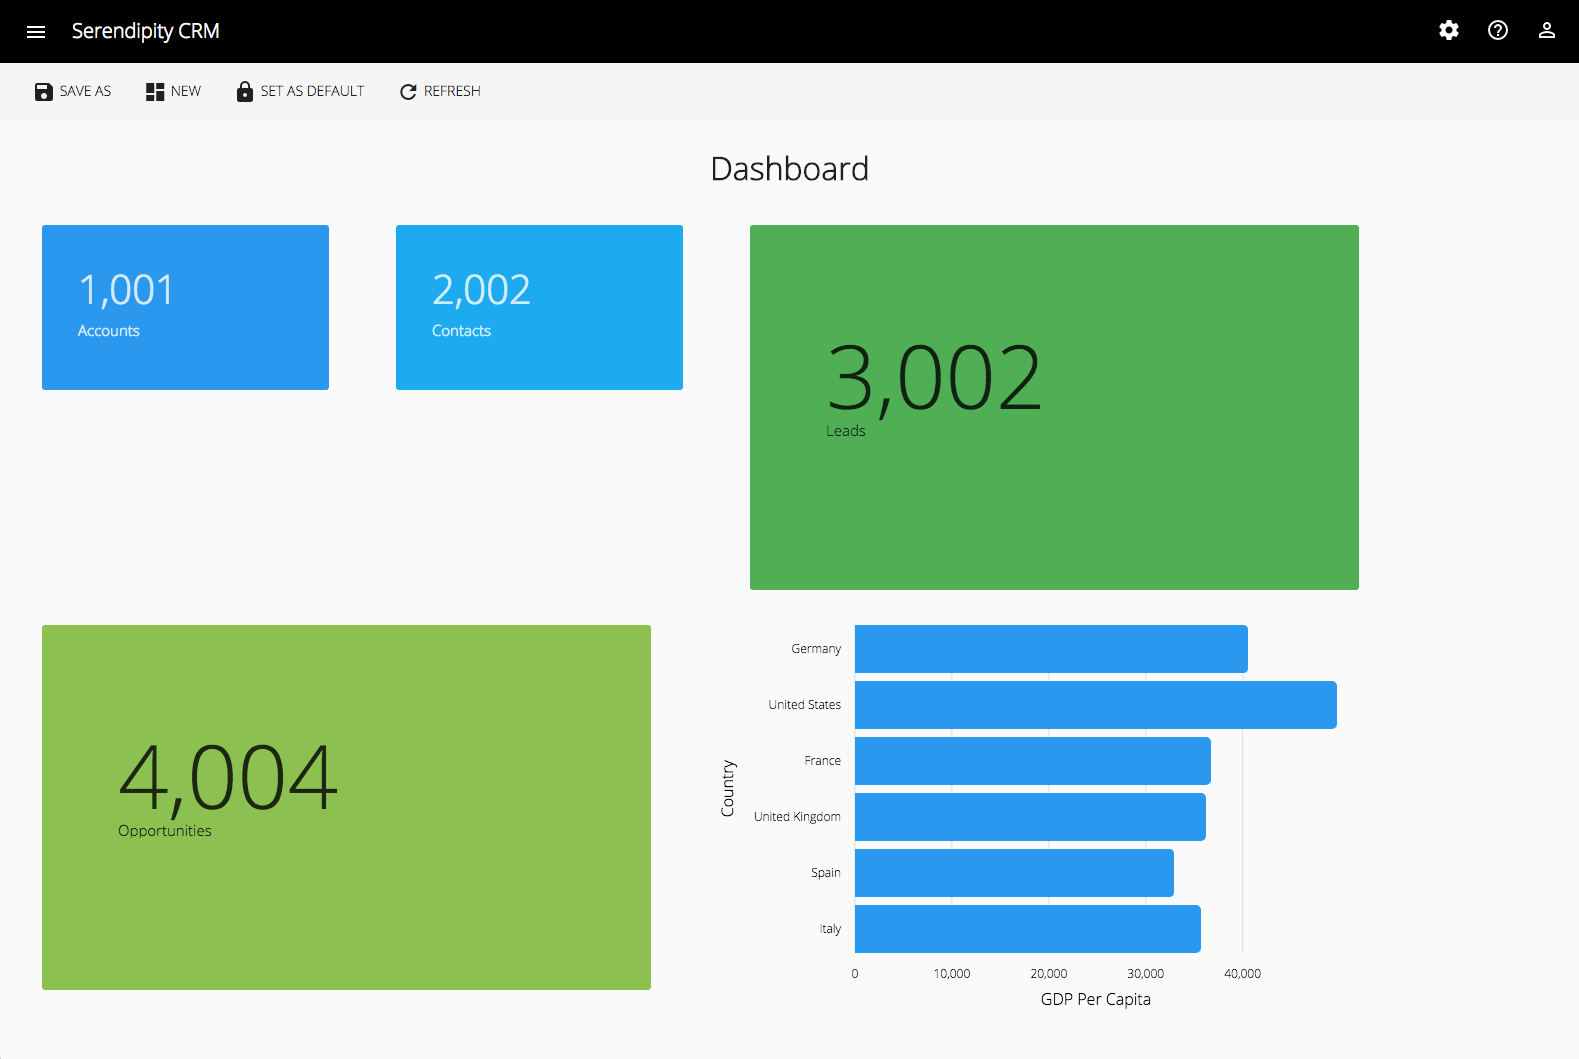
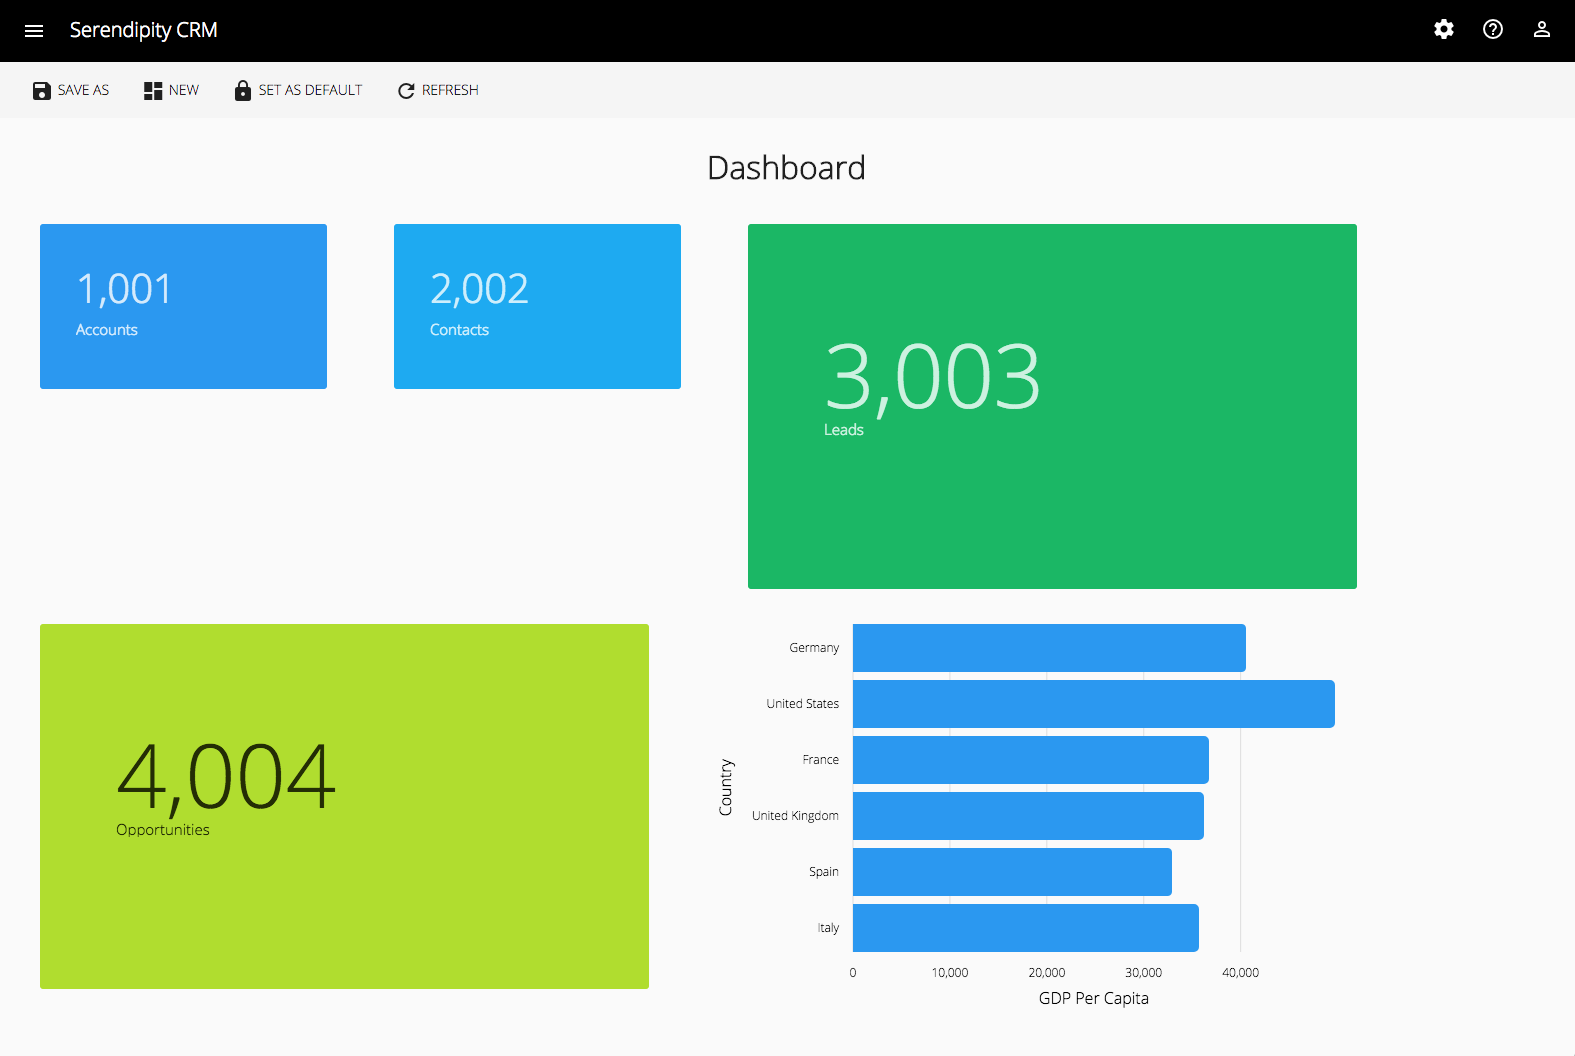
Added support for Firebase Hosting

diff --git a/projects/sales/src/lib/components/dashboard/color-sets.ts b/projects/sales/src/lib/components/dashboard/color-sets.ts
@@ -1,0 +1,124 @@
+export let colorSets = [
+  {
+    name: 'vivid',
+    selectable: true,
+    group: 'Ordinal',
+    domain: [
+      '#647c8a', '#3f51b5', '#2196f3', '#00b862', '#afdf0a', '#a7b61a', '#f3e562', '#ff9800', '#ff5722', '#ff4514'
+    ]
+  },
+  {
+    name: 'natural',
+    selectable: true,
+    group: 'Ordinal',
+    domain: [
+      '#bf9d76', '#e99450', '#d89f59', '#f2dfa7', '#a5d7c6', '#7794b1', '#afafaf', '#707160', '#ba9383', '#d9d5c3'
+    ]
+  },
+  {
+    name: 'cool',
+    selectable: true,
+    group: 'Ordinal',
+    domain: [
+      '#a8385d', '#7aa3e5', '#a27ea8', '#aae3f5', '#adcded', '#a95963', '#8796c0', '#7ed3ed', '#50abcc', '#ad6886'
+    ]
+  },
+  {
+    name: 'fire',
+    selectable: true,
+    group: 'Ordinal',
+    domain: [
+      '#ff3d00', '#bf360c', '#ff8f00', '#ff6f00', '#ff5722', '#e65100', '#ffca28', '#ffab00'
+    ]
+  },
+  {
+    name: 'solar',
+    selectable: true,
+    group: 'Continuous',
+    domain: [
+      '#fff8e1', '#ffecb3', '#ffe082', '#ffd54f', '#ffca28', '#ffc107', '#ffb300', '#ffa000', '#ff8f00', '#ff6f00'
+    ]
+  },
+  {
+    name: 'air',
+    selectable: true,
+    group: 'Continuous',
+    domain: [
+      '#e1f5fe', '#b3e5fc', '#81d4fa', '#4fc3f7', '#29b6f6', '#03a9f4', '#039be5', '#0288d1', '#0277bd', '#01579b'
+    ]
+  },
+  {
+    name: 'aqua',
+    selectable: true,
+    group: 'Continuous',
+    domain: [
+      '#e0f7fa', '#b2ebf2', '#80deea', '#4dd0e1', '#26c6da', '#00bcd4', '#00acc1', '#0097a7', '#00838f', '#006064'
+    ]
+  },
+  {
+    name: 'flame',
+    selectable: false,
+    group: 'Ordinal',
+    domain: [
+      '#A10A28', '#D3342D', '#EF6D49', '#FAAD67', '#FDDE90', '#DBED91', '#A9D770', '#6CBA67', '#2C9653', '#146738'
+    ]
+  },
+  {
+    name: 'ocean',
+    selectable: false,
+    group: 'Ordinal',
+    domain: [
+      '#1D68FB', '#33C0FC', '#4AFFFE', '#AFFFFF', '#FFFC63', '#FDBD2D', '#FC8A25', '#FA4F1E', '#FA141B', '#BA38D1'
+    ]
+  },
+  {
+    name: 'forest',
+    selectable: false,
+    group: 'Ordinal',
+    domain: [
+      '#55C22D', '#C1F33D', '#3CC099', '#AFFFFF', '#8CFC9D', '#76CFFA', '#BA60FB', '#EE6490', '#C42A1C', '#FC9F32'
+    ]
+  },
+  {
+    name: 'horizon',
+    selectable: false,
+    group: 'Ordinal',
+    domain: [
+      '#2597FB', '#65EBFD', '#99FDD0', '#FCEE4B', '#FEFCFA', '#FDD6E3', '#FCB1A8', '#EF6F7B', '#CB96E8', '#EFDEE0'
+    ]
+  },
+  {
+    name: 'neons',
+    selectable: false,
+    group: 'Ordinal',
+    domain: [
+      '#FF3333', '#FF33FF', '#CC33FF', '#0000FF', '#33CCFF', '#33FFFF', '#33FF66', '#CCFF33', '#FFCC00', '#FF6600'
+    ]
+  },
+  {
+    name: 'picnic',
+    selectable: false,
+    group: 'Ordinal',
+    domain: [
+      '#FAC51D', '#66BD6D', '#FAA026', '#29BB9C', '#E96B56', '#55ACD2', '#B7332F', '#2C83C9', '#9166B8', '#92E7E8'
+    ]
+  },
+  {
+    name: 'night',
+    selectable: false,
+    group: 'Ordinal',
+    domain: [
+      '#2B1B5A', '#501356', '#183356', '#28203F', '#391B3C', '#1E2B3C', '#120634',
+      '#2D0432', '#051932', '#453080', '#75267D', '#2C507D', '#4B3880', '#752F7D', '#35547D'
+    ]
+  },
+  {
+    name: 'nightLights',
+    selectable: false,
+    group: 'Ordinal',
+    domain: [
+      '#4e31a5', '#9c25a7', '#3065ab', '#57468b', '#904497', '#46648b',
+      '#32118d', '#a00fb3', '#1052a2', '#6e51bd', '#b63cc3', '#6c97cb', '#8671c1', '#b455be', '#7496c3'
+    ]
+  }
+];

diff --git a/projects/sales/src/lib/components/dashboard/dashboard.component.ts b/projects/sales/src/lib/components/dashboard/dashboard.component.ts
@@ -28,7 +28,7 @@ const contacts = [
 const leads = [
   {
     'name': 'Leads',
-    'value': 3002
+    'value': 3003
   }
 ];
 
@@ -54,20 +54,22 @@ export class DashboardComponent implements OnInit {
   smallView: any[] = [322, 200];
   largeView: any[] = [644, 400];
 
+  // '#647c8a', '#3f51b5', '#2196f3', '#00b862', '#afdf0a', '#a7b61a', '#f3e562', '#ff9800', '#ff5722', '#ff4514'
+
   accountsColorScheme = {
-    domain: ['#2196F3']
+    domain: ['#2196f3']  // #2196F3
   };
 
   contactsColorScheme = {
-    domain: ['#03A9F4']
+    domain: ['#03A9F4']  // #03A9F4
   };
 
   leadsColorScheme = {
-    domain: ['#4CAF50']
+    domain: ['#00b862']  // #4CAF50
   };
 
   opportunitiesColorScheme = {
-    domain: ['#8BC34A']
+    domain: ['#afdf0a']  // #8BC34A
   };
 
   single: any[];
